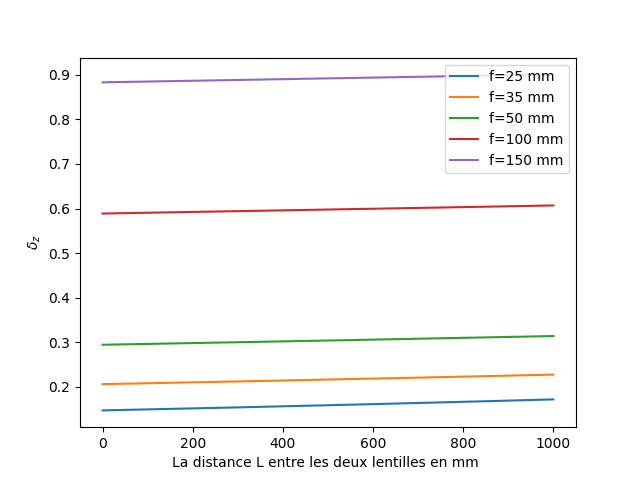
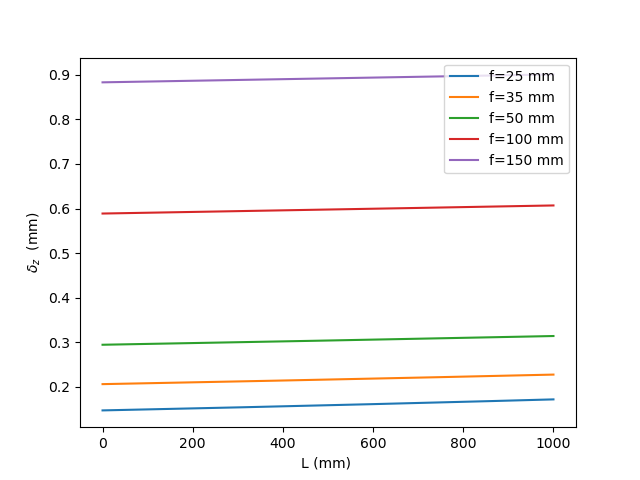
Better plots

diff --git a/matrix.py b/matrix.py
@@ -32,10 +32,10 @@ def solveSystem(f1, f2, L, d, phi1, phi2):
     #VÉRIFIER LE CALCUL DE DELTAZ (ca speut que j'ai écrit de la merde, mais normalement ca devrait être bon)
     #*** Le calcul de deltaz suppose une résolution symétrique centrée sur le plan focal
 
-    vecSolution= sp.Matrix([r2_i_y_value, r2_i_alpha_value])
-    r_apres_lentille = M2*M1*vecSolution
+    # vecSolution= sp.Matrix([r2_i_y_value, r2_i_alpha_value])
+    # r_apres_lentille = M2*M1*vecSolution
 
-    print(r_apres_lentille) ######### ENELEVER CE PRINT SI NECESSAIRE
+    # print(r_apres_lentille) ######### ENLEVER CE PRINT SI NECESSAIRE
 
     deltaz = abs(2 * r2_i_y_value / math.tan(r2_i_alpha_value)) #Calcul de la résolution avec l'angle et la heuteur
     return deltaz
